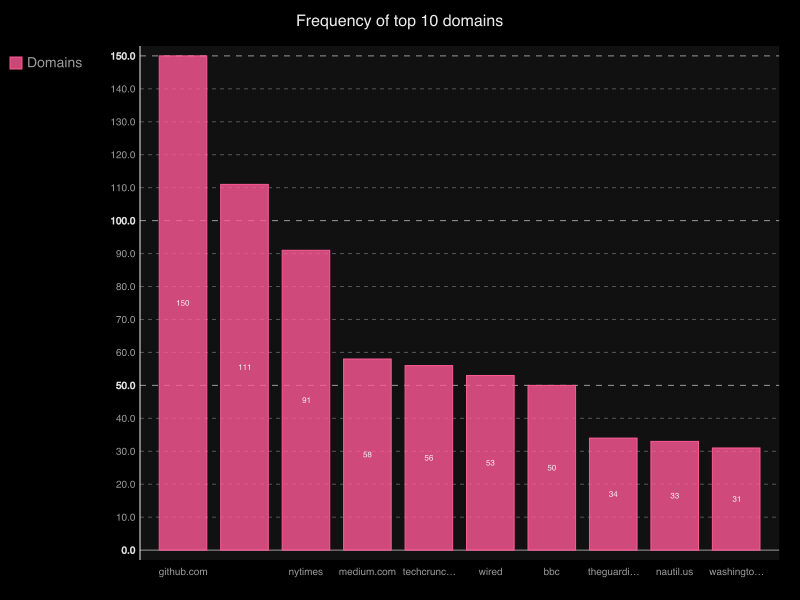
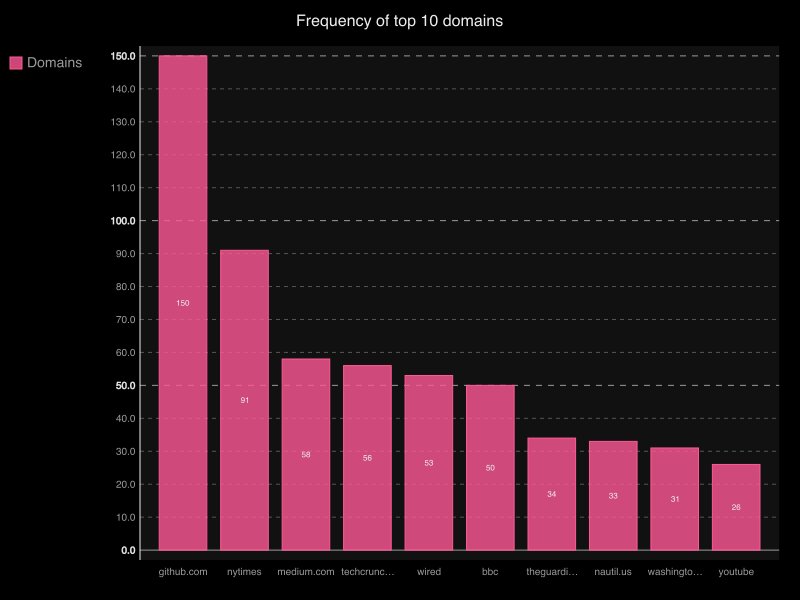
Remove unlabeled bar in the diagram

diff --git a/graphing.py b/graphing.py
@@ -59,6 +59,8 @@ class Graphing(object):
         count_list = []
 
         for k in count_map.keys():
+            if k == '':
+                continue
             count_list.append([count_map[k], k])
         sorted_list = sorted(count_list)
 
